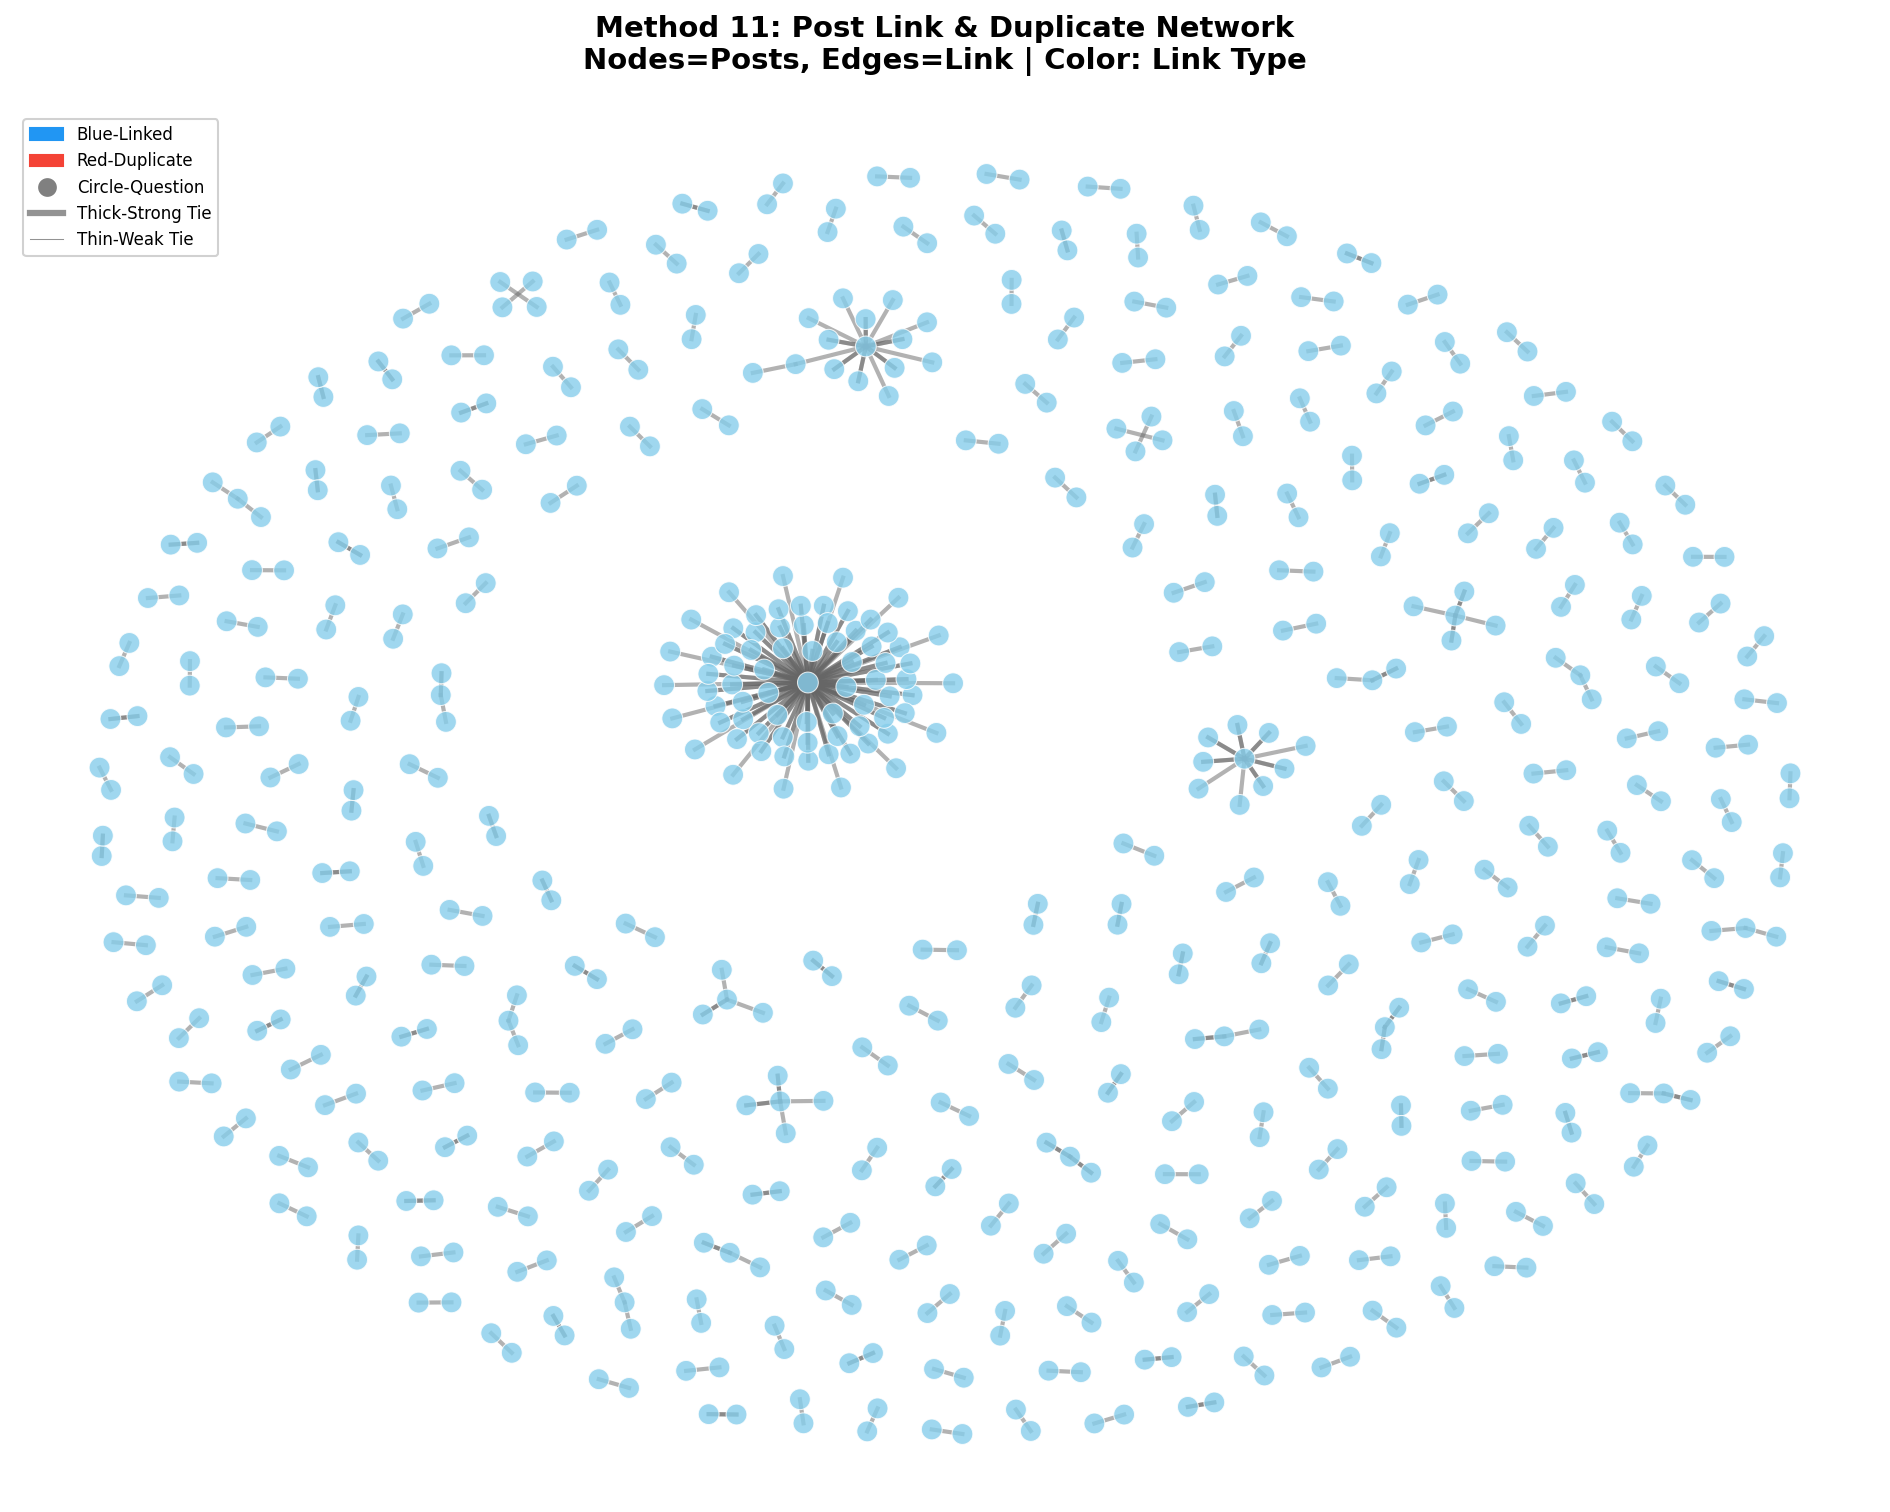
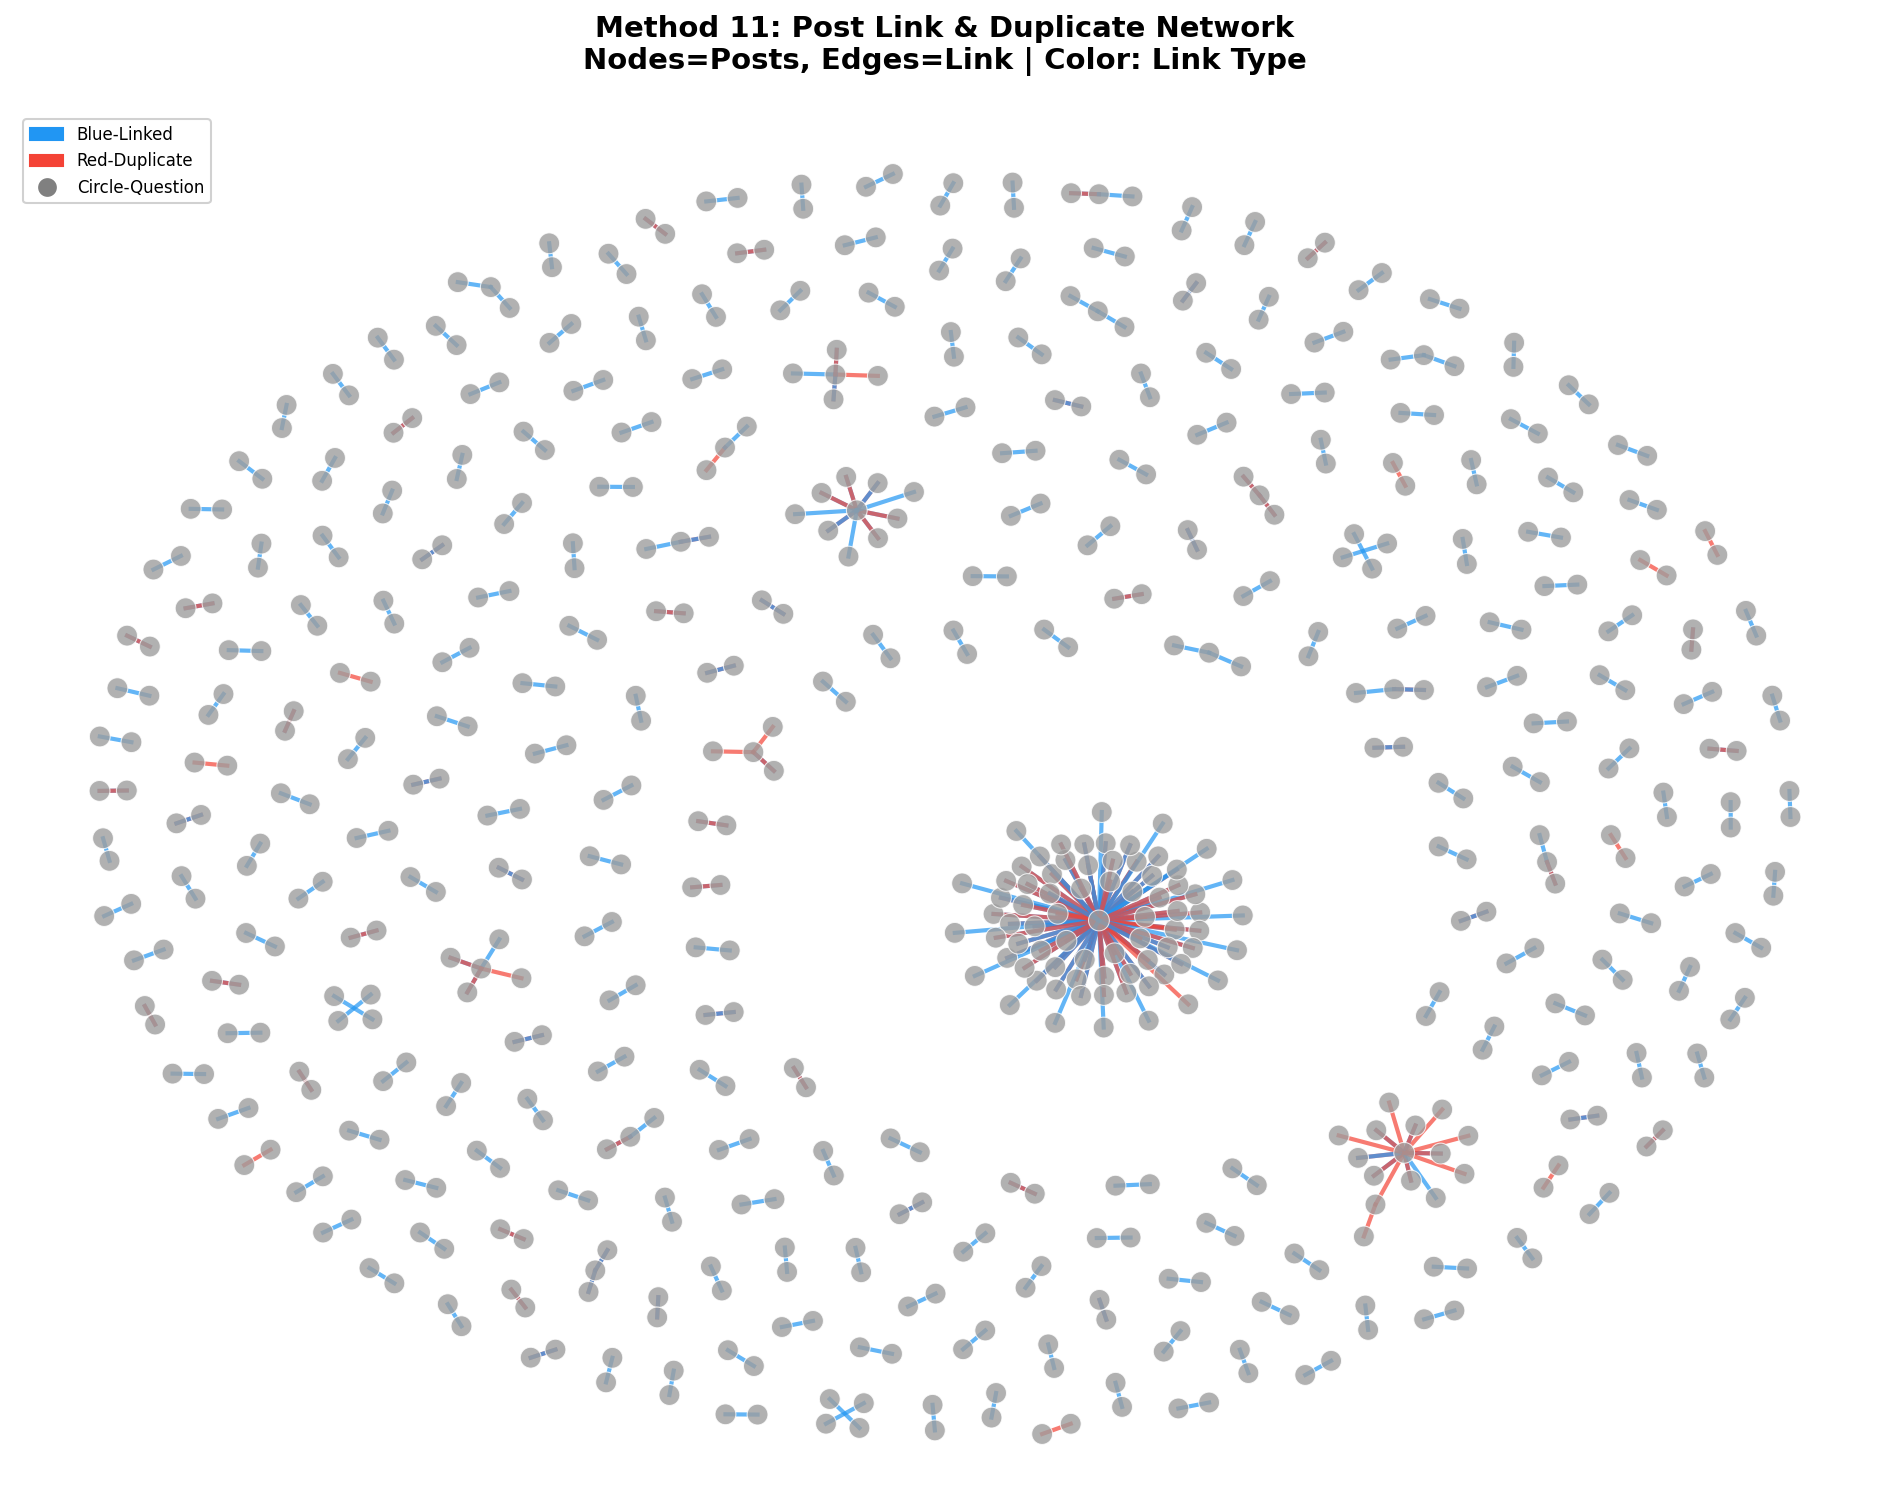
fix: 圖 11

diff --git a/src/visualization/plots.py b/src/visualization/plots.py
@@ -111,6 +111,8 @@ class SNAPlotter:
         title: str,
         color_by: Optional[str] = None,
         shape_by: Optional[str] = None,
+        edge_color_by: Optional[str] = None,
+        default_vertex_color: str = "#87CEEB",
         vertex_labels: Optional[List[str]] = None,
         filename: str = "network.png",
         legend_info: Optional[Dict] = None,
@@ -125,6 +127,7 @@ class SNAPlotter:
             title: 圖表標題
             color_by: 節點顏色依據的屬性
             shape_by: 節點形狀依據的屬性
+            edge_color_by: 邊顏色依據的屬性
             vertex_labels: 節點標籤列表
             filename: 輸出檔案名
             legend_info: 圖例資訊
@@ -160,7 +163,7 @@ class SNAPlotter:
             plt.close()
             return str(output_path)
 
-        colors = self._get_colors(graph, color_by)
+        colors = self._get_colors(graph, color_by, default_vertex_color)
         sizes = self._get_sizes(graph, color_by)
 
         if shape_by:
@@ -197,6 +200,8 @@ class SNAPlotter:
                 zorder=2,
             )
 
+        edge_colors = self._get_edge_colors(graph, edge_color_by)
+
         if show_edge_weights and edge_weight_attribute in graph.es.attribute_names():
             weights = graph.es[edge_weight_attribute]
             if weights and len(weights) > 0:
@@ -213,26 +218,26 @@ class SNAPlotter:
                     source, target = edge.tuple
                     x_coords = [layout[source][0], layout[target][0]]
                     y_coords = [layout[source][1], layout[target][1]]
-                    alpha = 0.5 + norm_weights[i] * 0.3 if max_w > min_w else 0.5
+                    alpha = 0.5 + norm_weights[i] * 0.3 if max_w > min_w else 0.7
                     ax.plot(
                         x_coords,
                         y_coords,
-                        color="#666666",
+                        color=edge_colors[i] if edge_colors else "#666666",
                         alpha=alpha,
                         linewidth=line_widths[i],
                         zorder=1,
                     )
         else:
-            for edge in graph.es:
+            for i, edge in enumerate(graph.es):
                 source, target = edge.tuple
                 x_coords = [layout[source][0], layout[target][0]]
                 y_coords = [layout[source][1], layout[target][1]]
                 ax.plot(
                     x_coords,
                     y_coords,
-                    color="#444444",
-                    alpha=0.6,
-                    linewidth=1.5,
+                    color=edge_colors[i] if edge_colors else "#444444",
+                    alpha=0.78,
+                    linewidth=1.8,
                     zorder=1,
                 )
 
@@ -262,9 +267,14 @@ class SNAPlotter:
         print(f"最終輸出值: 圖片已儲存至 {output_path}")
         return str(output_path)
 
-    def _get_colors(self, graph: ig.Graph, color_by: Optional[str]) -> List[str]:
+    def _get_colors(
+        self,
+        graph: ig.Graph,
+        color_by: Optional[str],
+        default_vertex_color: str = "#87CEEB",
+    ) -> List[str]:
         """根據屬性獲取顏色"""
-        default_color = "#87CEEB"
+        default_color = default_vertex_color
 
         if not color_by or color_by not in graph.vs.attribute_names():
             return [default_color] * len(graph.vs)
@@ -404,6 +414,22 @@ class SNAPlotter:
             return [plt.cm.RdYlGn_r(v) for v in norm_values]
 
         return [default_color] * len(graph.vs)
+
+    def _get_edge_colors(self, graph: ig.Graph, color_by: Optional[str]) -> List[str]:
+        default_color = "#9E9E9E"
+        if not color_by or color_by not in graph.es.attribute_names():
+            return [default_color] * len(graph.es)
+
+        values = graph.es[color_by]
+        if color_by == "link_type":
+            color_map = {
+                "Linked": "#2196F3",
+                "Duplicate": "#F44336",
+                "Other": "#9E9E9E",
+            }
+            return [color_map.get(str(v), default_color) for v in values]
+
+        return [default_color] * len(graph.es)
 
     def _get_sizes(self, graph: ig.Graph, color_by: Optional[str]) -> List[int]:
         """根據屬性獲取節點大小"""

diff --git a/src/sna_runner.py b/src/sna_runner.py
@@ -426,10 +426,6 @@ class SNARunner:
                 "shapes": {
                     "Circle-Question": "o",
                 },
-                "edge_weights": {
-                    "Thick-Strong Tie": 3.0,
-                    "Thin-Weak Tie": 0.5,
-                },
             },
             "analysis_12": {
                 "colors": {
@@ -621,7 +617,9 @@ class SNARunner:
                 self.plotter.plot_network_graph(
                     result["graph"],
                     "Method 11: Post Link & Duplicate Network\nNodes=Posts, Edges=Link | Color: Link Type",
-                    color_by="link_type",
+                    color_by=None,
+                    edge_color_by="link_type",
+                    default_vertex_color="#9E9E9E",
                     filename="analysis_11_network_raw.png",
                     legend_info=LEGEND_INFO["analysis_11"],
                 )
